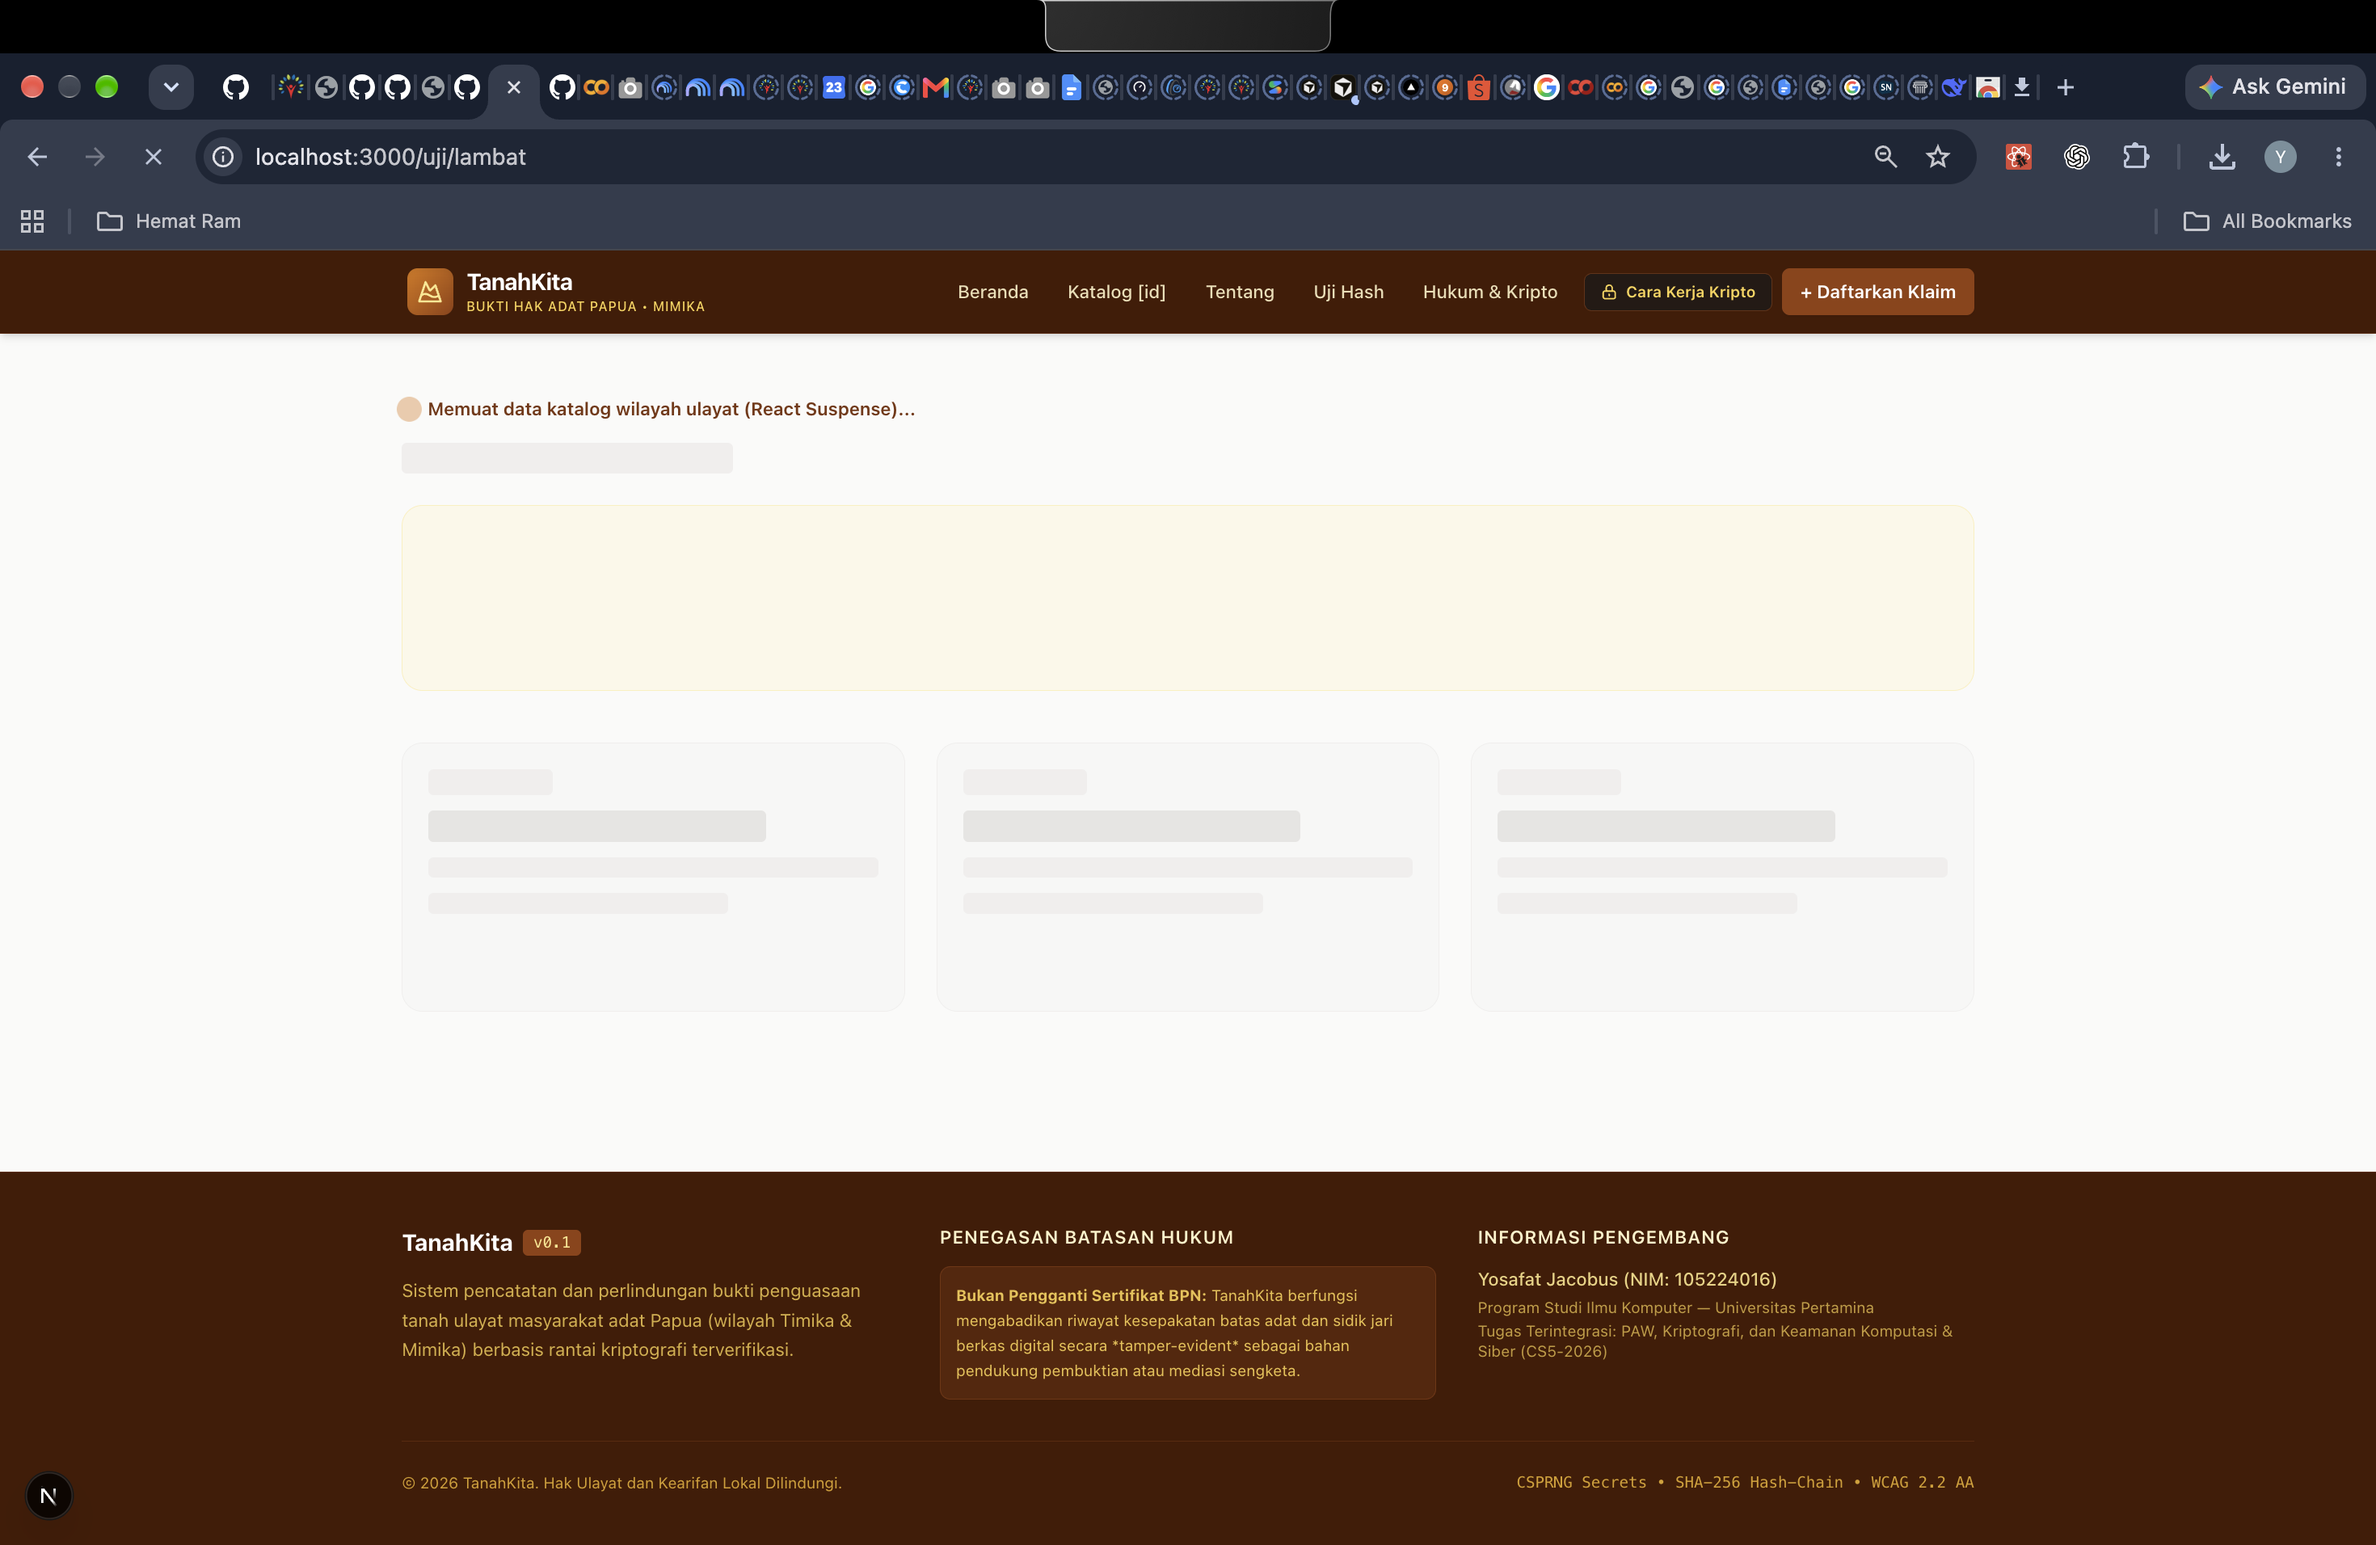
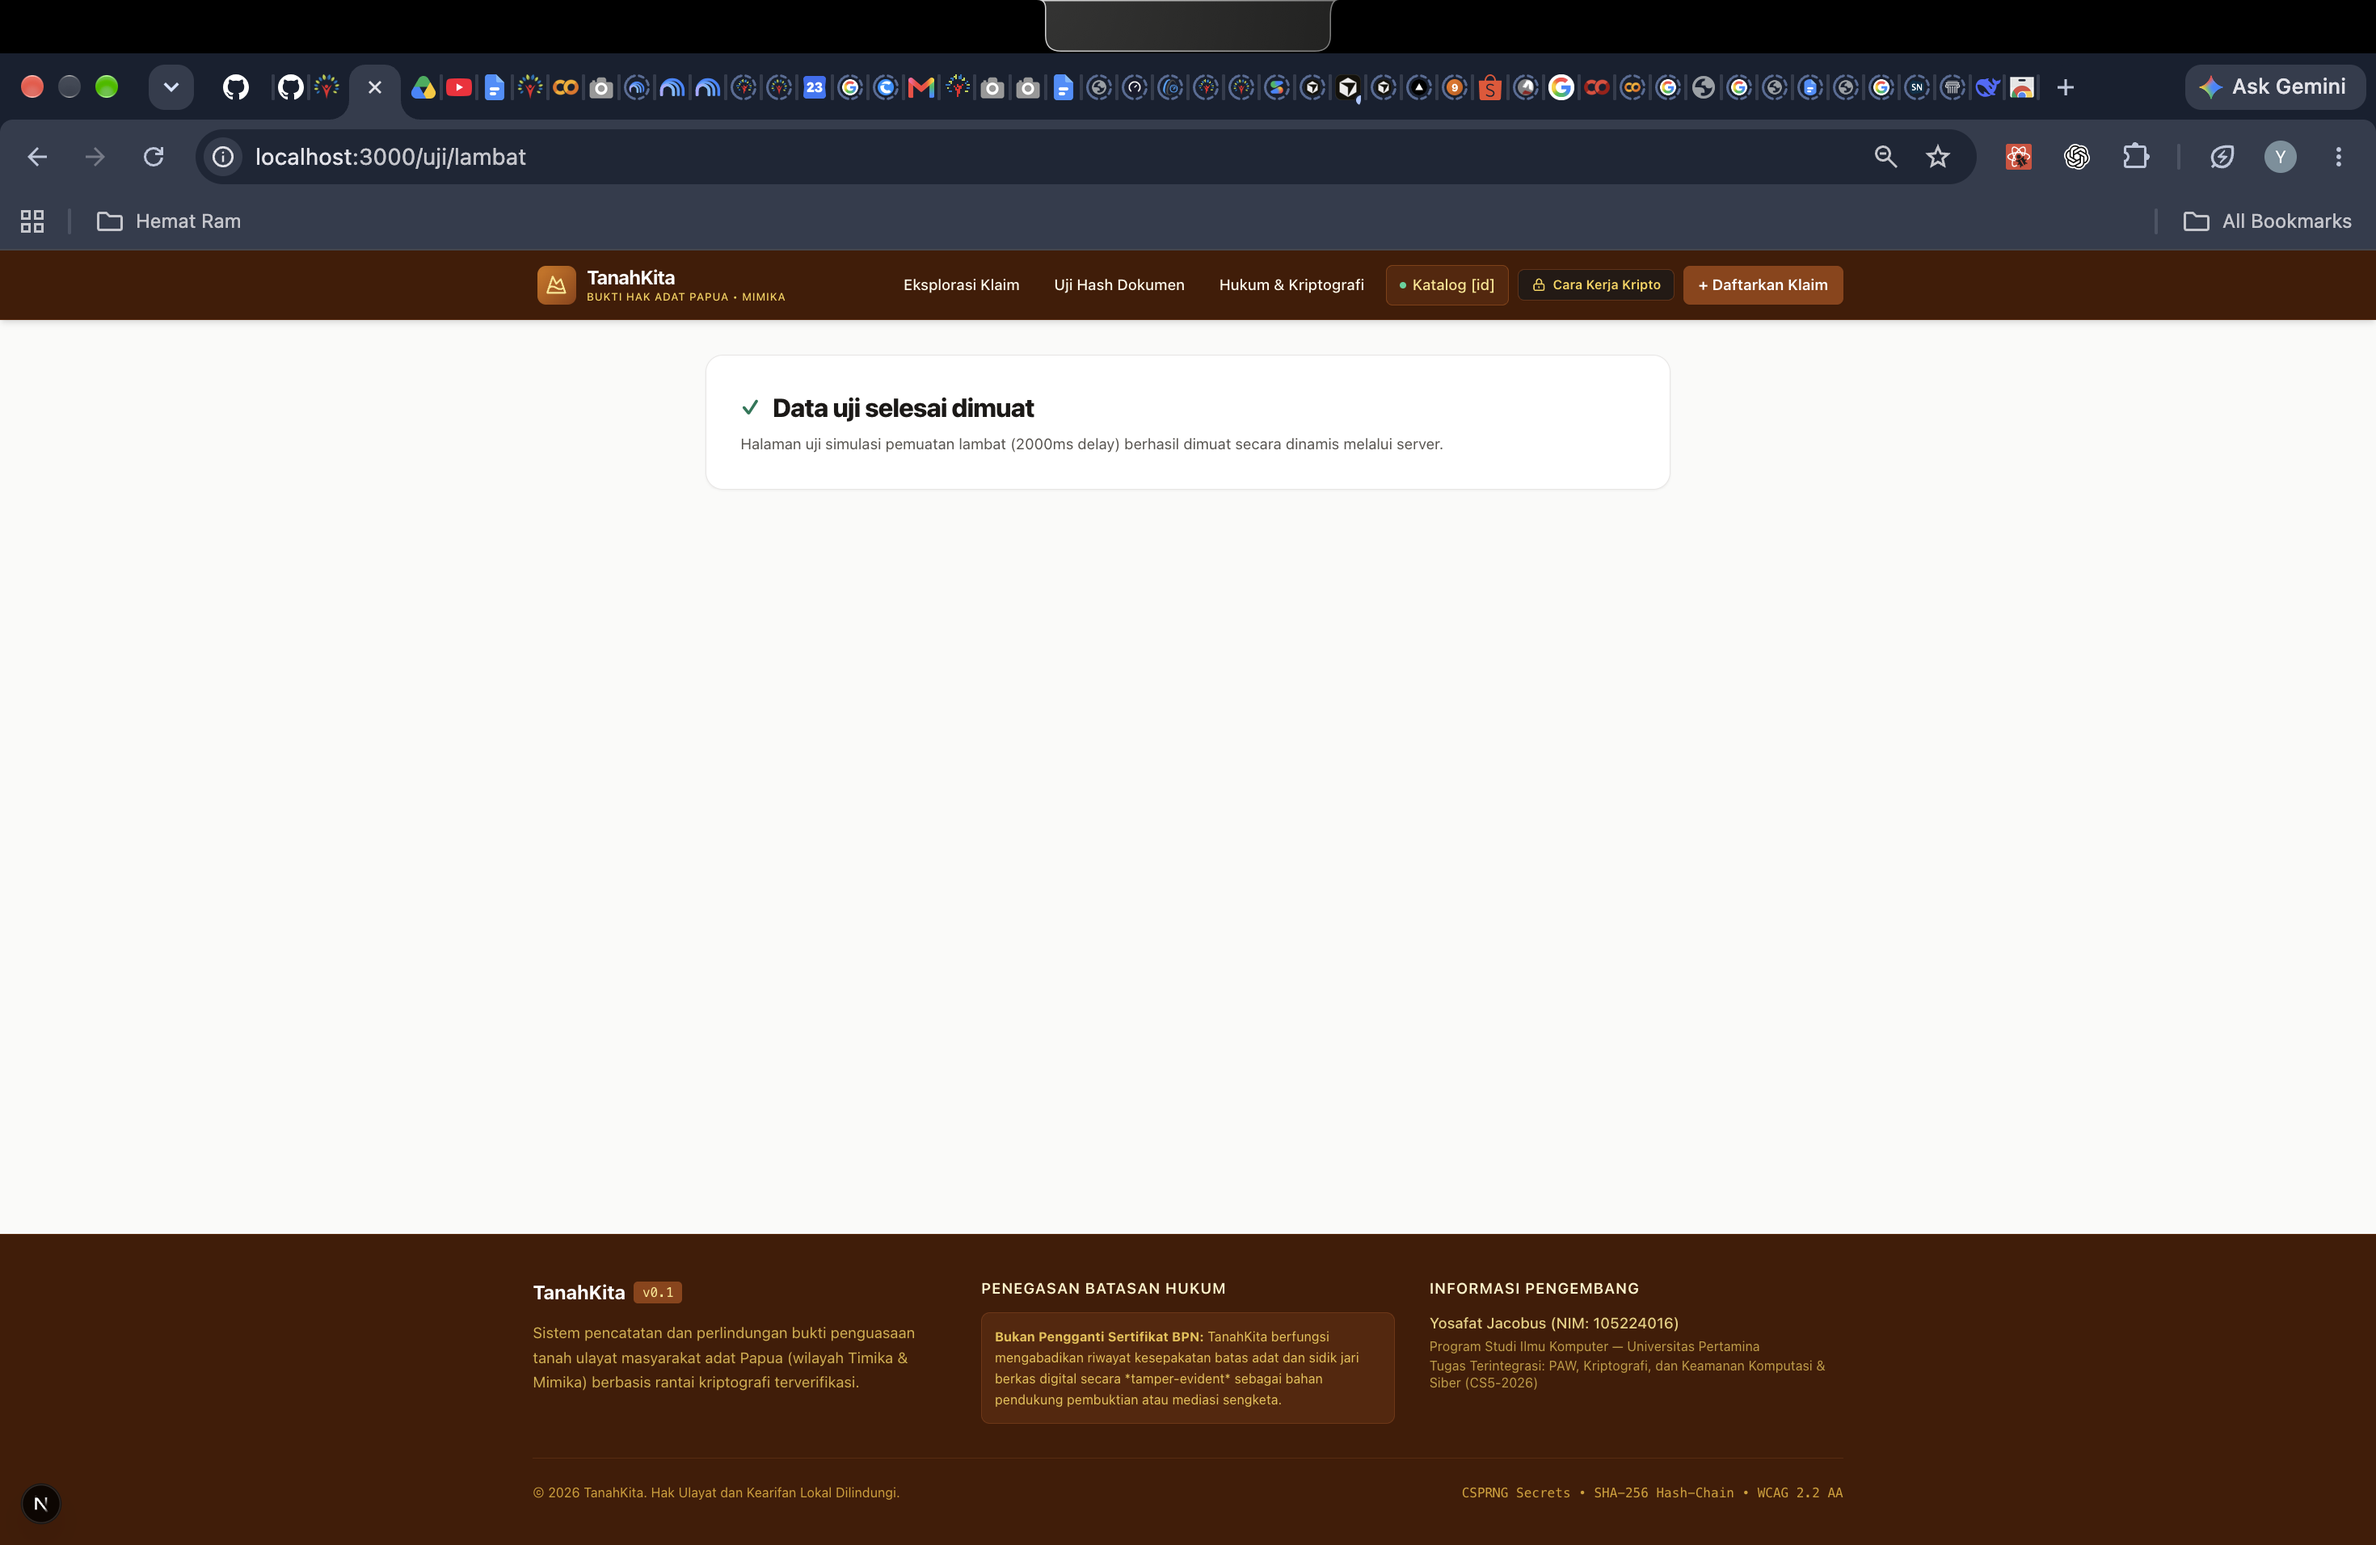
docs(modul-04): lengkapi bukti visual navigasi layout dan loading suspense

diff --git a/docs/praktikum/modul-04.md b/docs/praktikum/modul-04.md
@@ -89,12 +89,16 @@ src/app/
 
 ### Hasil Uji `layout.tsx` vs `template.tsx`
 
-1. **Sebelum Navigasi (`/katalog`):**  
+1. **Langkah 1: Sebelum Navigasi (`/katalog`):**  
    Kedua kolom input (`KolomCatatan` dengan label **"Catatan di layout (bertahan saat pindah halaman)"** dan **"Catatan di template (reset saat pindah halaman)"**) diisi dengan teks pengujian sebelum berpindah rute:
    ![01 Layout Sebelum Navigasi](screenshoot/modul-04/01_layout_sebelum_navigasi.png)
 
-2. **Sesudah Navigasi (`/katalog` → `/katalog/ktl-001` → `/katalog`):**  
-   Setelah bernavigasi antar-halaman di dalam segmen `/katalog`:
+2. **Langkah 2: Navigasi ke Halaman Detail (`/katalog/ktl-001`):**  
+   Pengguna berpindah ke rute dinamis `/katalog/ktl-001`. Terlihat jelas pada URL dan antarmuka bahwa catatan di layout **tetap bertahan**, sedangkan catatan di template **langsung ter-reset kosong** seketika rute anak dinamis dimuat:
+   ![02 Navigasi ke Detail](screenshoot/modul-04/02_navigasi_ke_detail_katalog.png)
+
+3. **Langkah 3: Sesudah Kembali ke Katalog (`/katalog`):**  
+   Setelah bernavigasi kembali ke indeks katalog ulayat:
    * Teks pada **"Catatan di layout"** **tetap bertahan (persisten)** karena *nested layout* (`src/app/katalog/layout.tsx`) tidak di-*unmount* selama pengguna berada di dalam sub-pohon `/katalog/*`.
    * Teks pada **"Catatan di template"** **kosong kembali (ter-reset)** karena Next.js membuat instans DOM/komponen baru (*remount*) pada `src/app/katalog/template.tsx` setiap kali segmen anak berganti:
    ![02 Layout Sesudah Navigasi](screenshoot/modul-04/02_layout_sesudah_navigasi.png)
@@ -102,8 +106,11 @@ src/app/
 ### Tangkapan Layar `loading.tsx` dan `error.tsx`
 
 1. **Tampilan `loading.tsx` (React Suspense Fallback):**  
-   Menampilkan indikator pemuatan dengan atribut aksesibilitas `role="status"` saat halaman `async` sedang menunggu penyelesaian *Promise* di server (diuji melalui rute lambat 2 detik sebelum folder `/uji` dibersihkan):
-   ![06 Loading Suspense](screenshoot/modul-04/06_loading_suspense.png)
+   Menampilkan indikator pemuatan dengan atribut aksesibilitas `role="status"` saat halaman `async` sedang menunggu penyelesaian *Promise* di server (diuji melalui rute lambat sebelum folder `/uji` dibersihkan):
+   * *Saat Proses Pemuatan Berlangsung (`loading.tsx` aktif):*
+     ![06 Loading Suspense](screenshoot/modul-04/06_loading_suspense_live.png)
+   * *Sesudah Selesai Dimuat (Halaman Akhir Berhasil Ditampilkan):*
+     ![06 Selesai Dimuat](screenshoot/modul-04/06_loading_suspense.png)
 
 2. **Tampilan `error.tsx` (Error Boundary):**  
    Menampilkan antarmuka pemulihan galat ramah pengguna (`role="alert"`) beserta pesan galat dan tombol **"Coba lagi"** (`retry` / `reset`) saat komponen halaman melempar *exception* di *runtime*:

diff --git a/week-4/modul-04.md b/week-4/modul-04.md
@@ -89,12 +89,16 @@ src/app/
 
 ### Hasil Uji `layout.tsx` vs `template.tsx`
 
-1. **Sebelum Navigasi (`/katalog`):**  
+1. **Langkah 1: Sebelum Navigasi (`/katalog`):**  
    Kedua kolom input (`KolomCatatan` dengan label **"Catatan di layout (bertahan saat pindah halaman)"** dan **"Catatan di template (reset saat pindah halaman)"**) diisi dengan teks pengujian sebelum berpindah rute:
    ![01 Layout Sebelum Navigasi](screenshoot/modul-04/01_layout_sebelum_navigasi.png)
 
-2. **Sesudah Navigasi (`/katalog` → `/katalog/ktl-001` → `/katalog`):**  
-   Setelah bernavigasi antar-halaman di dalam segmen `/katalog`:
+2. **Langkah 2: Navigasi ke Halaman Detail (`/katalog/ktl-001`):**  
+   Pengguna berpindah ke rute dinamis `/katalog/ktl-001`. Terlihat jelas pada URL dan antarmuka bahwa catatan di layout **tetap bertahan**, sedangkan catatan di template **langsung ter-reset kosong** seketika rute anak dinamis dimuat:
+   ![02 Navigasi ke Detail](screenshoot/modul-04/02_navigasi_ke_detail_katalog.png)
+
+3. **Langkah 3: Sesudah Kembali ke Katalog (`/katalog`):**  
+   Setelah bernavigasi kembali ke indeks katalog ulayat:
    * Teks pada **"Catatan di layout"** **tetap bertahan (persisten)** karena *nested layout* (`src/app/katalog/layout.tsx`) tidak di-*unmount* selama pengguna berada di dalam sub-pohon `/katalog/*`.
    * Teks pada **"Catatan di template"** **kosong kembali (ter-reset)** karena Next.js membuat instans DOM/komponen baru (*remount*) pada `src/app/katalog/template.tsx` setiap kali segmen anak berganti:
    ![02 Layout Sesudah Navigasi](screenshoot/modul-04/02_layout_sesudah_navigasi.png)
@@ -102,8 +106,11 @@ src/app/
 ### Tangkapan Layar `loading.tsx` dan `error.tsx`
 
 1. **Tampilan `loading.tsx` (React Suspense Fallback):**  
-   Menampilkan indikator pemuatan dengan atribut aksesibilitas `role="status"` saat halaman `async` sedang menunggu penyelesaian *Promise* di server (diuji melalui rute lambat 2 detik sebelum folder `/uji` dibersihkan):
-   ![06 Loading Suspense](screenshoot/modul-04/06_loading_suspense.png)
+   Menampilkan indikator pemuatan dengan atribut aksesibilitas `role="status"` saat halaman `async` sedang menunggu penyelesaian *Promise* di server (diuji melalui rute lambat sebelum folder `/uji` dibersihkan):
+   * *Saat Proses Pemuatan Berlangsung (`loading.tsx` aktif):*
+     ![06 Loading Suspense](screenshoot/modul-04/06_loading_suspense_live.png)
+   * *Sesudah Selesai Dimuat (Halaman Akhir Berhasil Ditampilkan):*
+     ![06 Selesai Dimuat](screenshoot/modul-04/06_loading_suspense.png)
 
 2. **Tampilan `error.tsx` (Error Boundary):**  
    Menampilkan antarmuka pemulihan galat ramah pengguna (`role="alert"`) beserta pesan galat dan tombol **"Coba lagi"** (`retry` / `reset`) saat komponen halaman melempar *exception* di *runtime*:
